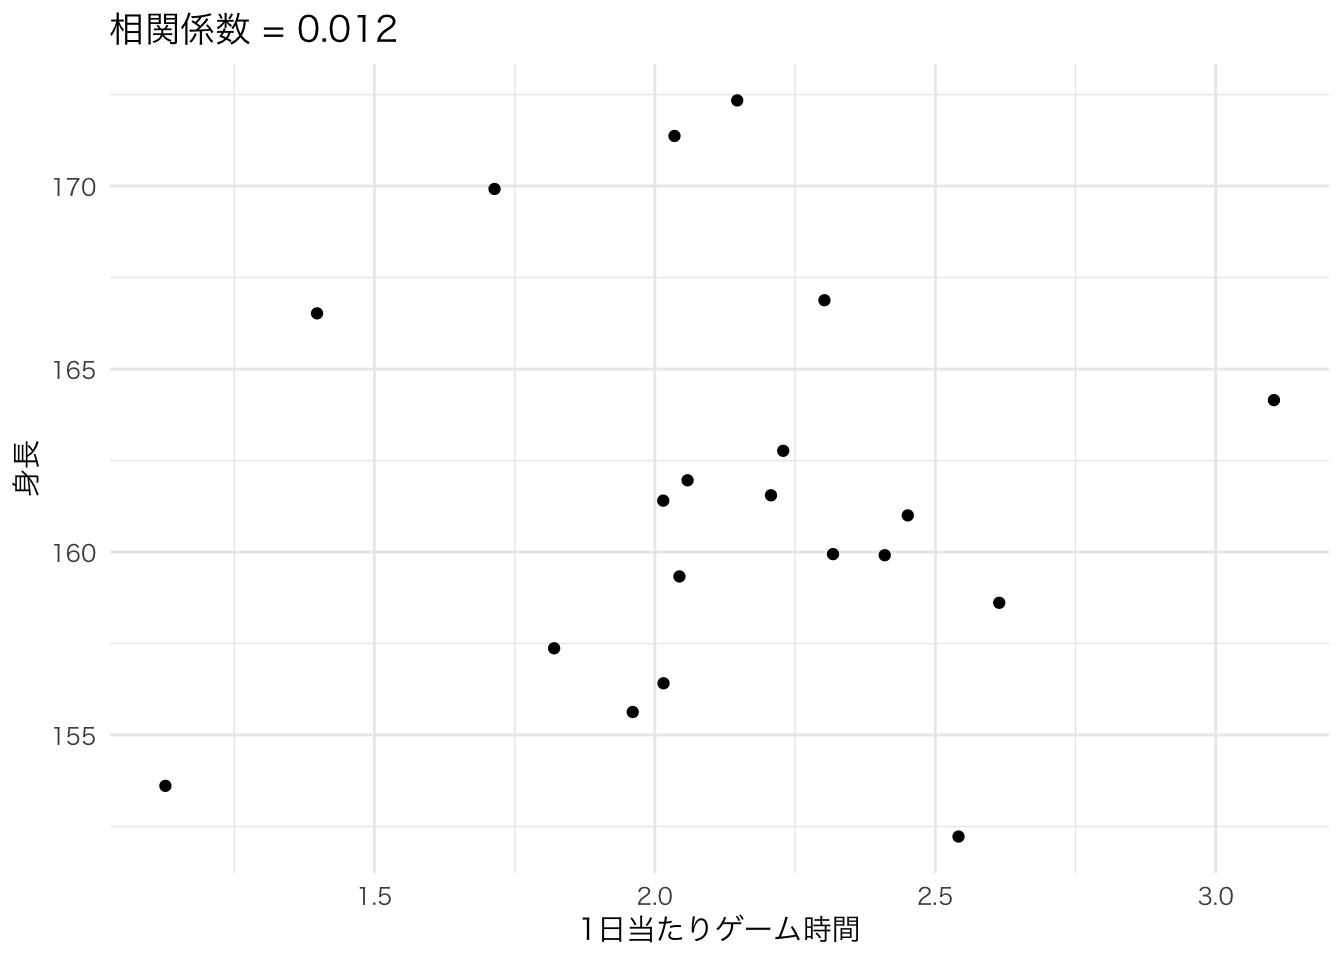
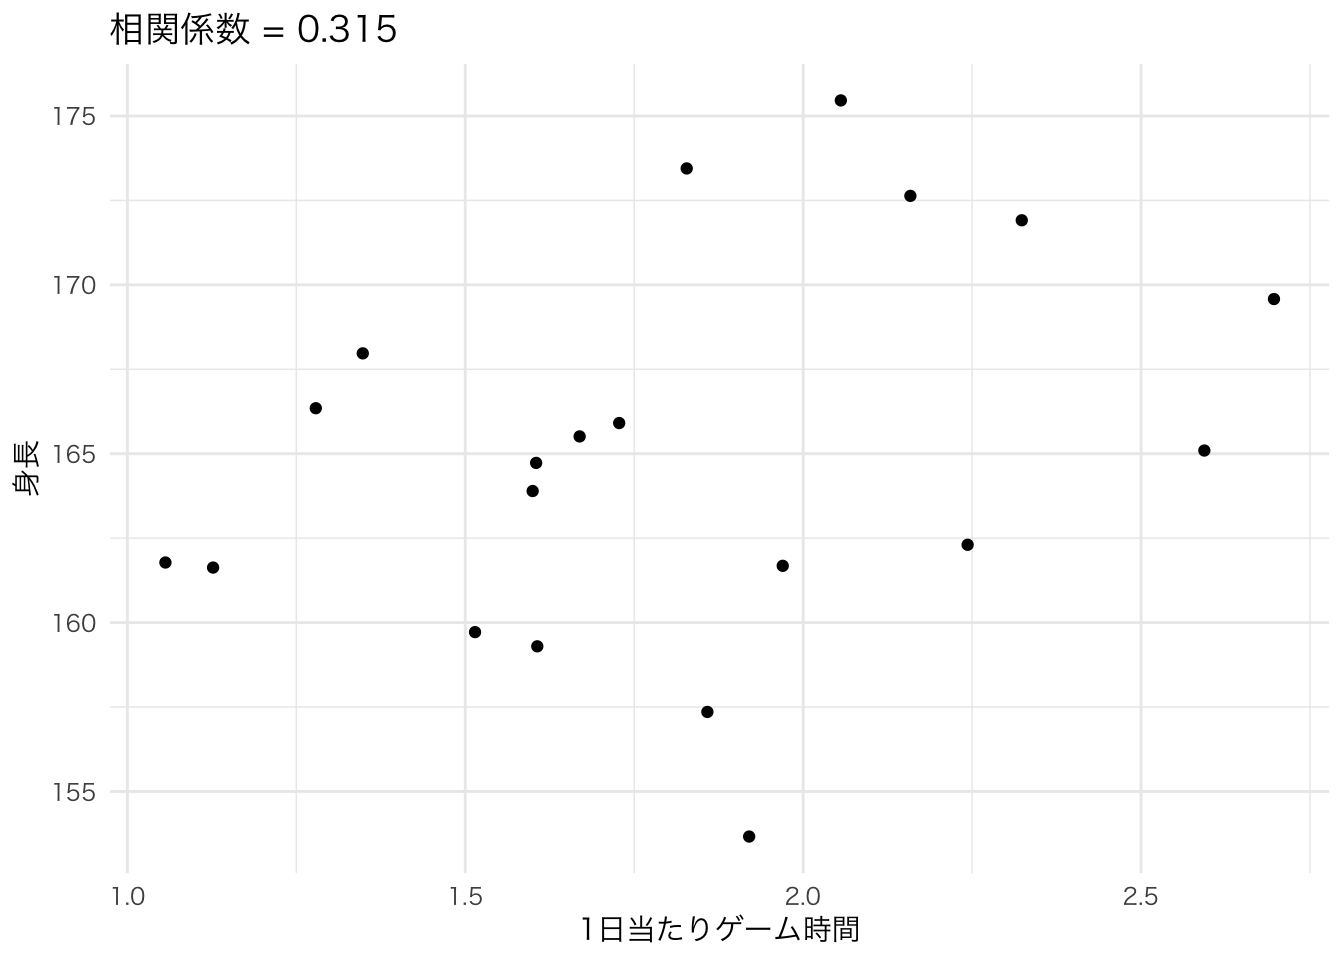
no message

diff --git a/oop_intro/index.html b/oop_intro/index.html
@@ -6,7 +6,7 @@
 
         <meta charset="utf-8">
         <meta name="viewport" content="width=device-width, initial-scale=1">
-        <title>Rによるオブジェクト指向プログラミング入門</title>
+        <title>Rによるオブジェクト指向プログラミング入門（作成中）</title>
         
         <style>
 
@@ -105,7 +105,7 @@
         <nav class="navbar navbar-default navbar-fixed-top">
             <div class="container">
                 <div class="navbar-header">
-                    <a class="navbar-brand visible-xs" href="#">Rによるオブジェクト指向プログラミング入門</a>
+                    <a class="navbar-brand visible-xs" href="#">Rによるオブジェクト指向プログラミング入門（作成中）</a>
                     <button class="navbar-toggle" data-target=".navbar-collapse" data-toggle="collapse">
                         <span class="icon-bar"></span>
                         <span class="icon-bar"></span>
@@ -155,7 +155,7 @@
 <main>
 
     <div>
-        <h2><center>Rによるオブジェクト指向プログラミング入門</center></h2>
+        <h2><center>Rによるオブジェクト指向プログラミング入門（作成中）</center></h2>
         <h5><center></center></h5>
         <center>
 <a href="https://www.jaysong.net/tags/r"><kbd class="item-tag">R</kbd></a>
@@ -169,6 +169,7 @@
 <script src="/rmarkdown-libs/header-attrs/header-attrs.js"></script>
 
 
+<p>最終修正日: 2021-05-21</p>
 <div id="まずは例から" class="section level1">
 <h1>1. まずは例から</h1>
 <pre class="r"><code>Vector1 &lt;- c(1, 5, 3, 7, 9, 12, 5, 4, 10, 1)
@@ -232,24 +233,24 @@ class(Cor_Obj)</code></pre>
 <pre class="r"><code>str(Cor_Obj)</code></pre>
 <pre><code>## List of 4
 ##  $ data    :&#39;data.frame&#39;:    20 obs. of  2 variables:
-##   ..$ x: num [1:20] 2.15 2.06 1.82 2.03 1.4 ...
-##   ..$ y: num [1:20] 172 162 157 171 167 ...
+##   ..$ x: num [1:20] 2.59 1.97 2.16 2.32 1.67 ...
+##   ..$ y: num [1:20] 165 162 173 172 166 ...
 ##  $ var_name: chr [1:2] &quot;1日当たりゲーム時間&quot; &quot;身長&quot;
-##  $ cor     : Named num 0.0118
+##  $ cor     : Named num 0.315
 ##   ..- attr(*, &quot;names&quot;)= chr &quot;cor&quot;
-##  $ cor_ci  : num [1:2] -0.433 0.452
+##  $ cor_ci  : num [1:2] -0.148 0.665
 ##   ..- attr(*, &quot;conf.level&quot;)= num 0.95
 ##  - attr(*, &quot;class&quot;)= chr &quot;My_Cor_Object&quot;</code></pre>
 <p><code>Cor_Obj</code>には元のデータがデータフレームとして格納され（<code>$data</code>）、それぞれの変数名（<code>$var_name</code>）、相関係数（<code>$cor</code>）、相関係数の95%信頼区間（<code>$cor_ci</code>）が<code>Cor_Obj</code>の中に入っています。本質的にはリスト型のデータ構造ですが、クラス名が<code>My_Cor_Object</code>になっているだけです。</p>
 <p>この<code>My_Cor_Object</code>クラスには3つのメソッド（専用関数）が用意されており、<code>print()</code>、<code>summary()</code>、<code>plot()</code>です。<code>print()</code>と<code>summary()</code>は同じ関数で、<code>x</code>と<code>y</code>の平均値、そして相関係数と信頼区間を出力します。<code>plot()</code>は散布図と相関係数を出力します。実際の例を見てみましょう。</p>
 <pre class="r"><code>print(Cor_Obj)</code></pre>
-<pre><code>## 1日当たりゲーム時間の平均値: 2.125
-## 身長の平均値: 161.645
-## 相関係数: 0.012 [-0.433, 0.452]</code></pre>
+<pre><code>## 1日当たりゲーム時間の平均値: 1.809
+## 身長の平均値: 164.995
+## 相関係数: 0.315 [-0.148, 0.665]</code></pre>
 <pre class="r"><code>summary(Cor_Obj) # summary()はprint()と同じ</code></pre>
-<pre><code>## 1日当たりゲーム時間の平均値: 2.125
-## 身長の平均値: 161.645
-## 相関係数: 0.012 [-0.433, 0.452]</code></pre>
+<pre><code>## 1日当たりゲーム時間の平均値: 1.809
+## 身長の平均値: 164.995
+## 相関係数: 0.315 [-0.148, 0.665]</code></pre>
 <pre class="r"><code>plot(Cor_Obj)</code></pre>
 <p><img src="/oop_intro_files/figure-html/unnamed-chunk-8-1.png" width="672" /></p>
 <p>既存の<code>cor.test()</code>で作成される<code>"htest"</code>クラスに比べ、<code>"My_Cor_Object"</code>クラスは各変数の平均値が名前と一緒に表示され、<code>plot()</code>で簡単に散布図が作成できる大変便利なクラスです。それでは一つずつ作っていきましょう。まずは、<code>"My_Cor_Object"</code>クラスのオブジェクトを作成する<code>My_Cor()</code>関数からです。</p>

diff --git a/tags/r/page/2/index.html b/tags/r/page/2/index.html
@@ -250,7 +250,7 @@
     
     
 
-    <h4><center><a href="/oop_intro/">Rによるオブジェクト指向プログラミング入門</a></center></h4>
+    <h4><center><a href="/oop_intro/">Rによるオブジェクト指向プログラミング入門（作成中）</a></center></h4>
     <h5><center>May 20, 2020</center></h5>
     <center>
 <a href="https://www.jaysong.net/tags/r"><kbd class="item-tag">R</kbd></a>

diff --git a/tags/プログラミング/index.html b/tags/プログラミング/index.html
@@ -189,7 +189,7 @@
     
     
 
-    <h4><center><a href="/oop_intro/">Rによるオブジェクト指向プログラミング入門</a></center></h4>
+    <h4><center><a href="/oop_intro/">Rによるオブジェクト指向プログラミング入門（作成中）</a></center></h4>
     <h5><center>May 20, 2020</center></h5>
     <center>
 <a href="https://www.jaysong.net/tags/r"><kbd class="item-tag">R</kbd></a>
